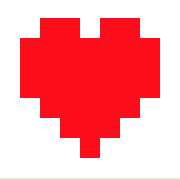
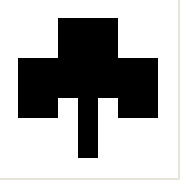
suits

diff --git a/src/js/main.js b/src/js/main.js
@@ -1,17 +1,15 @@
 let player1StackSize = document.querySelector('#player1StackSize')
 let player1InPlay = document.querySelector ('#player1InPlay')
-let player1Suit = document.querySelector('#player1Suit')
+let player1Suit = document.querySelector('#player1Suit div')
 let player1Rank = document.querySelector('#player1Rank')
 let player2StackSize = document.querySelector('#player2StackSize')
 let player2InPlay = document.querySelector('#player2InPlay')
-let player2Suit = document.querySelector('#player2Suit')
+let player2Suit = document.querySelector('#player2Suit div')
 let player2Rank = document.querySelector('#player2Rank')
-let suitPath = "../hearts.png"
 
 class Card {
-  constructor(suit,suitPath,rank,score) {
+  constructor(suit,rank,score) {
     this.suit = suit
-    this.suitPath = suitPath
     this.rank = rank
     this.score = score
   }
@@ -20,8 +18,7 @@ class Deck {
   constructor() {
     this.quant = 52
     this.deck = []
-    this.suits = ["Hearts", "Diamonds", "Clubs", "Spades"]
-    this.suitPaths = ['../img/hearts.png', '../img/diamonds.png', '../img/clubs.png', '../img/spades.png']
+    this.suits = ["hearts", "diamonds", "clubs", "spades"]
     this.ranks = ["2", "3", "4", "5", "6", "7", "8", "9", "10", "Jack", "Queen", "King", "Ace"]
     this.scores = [2,3,4,5,6,7,8,9,10,11,12,13,14]
   }
@@ -29,7 +26,7 @@ class Deck {
     this.deck = [];
     for (let i = 0; i < 4; i++) {
       for (let j = 0; j < 13; j++) {
-        this.deck.push(new Card(this.suits[i], this.suitPaths[i],this.ranks[j], this.scores[j]))
+        this.deck.push(new Card(this.suits[i],this.ranks[j], this.scores[j]))
       }
     }
     let currentIndex = this.deck.length, tempValue, randomIndex;
@@ -54,12 +51,12 @@ class Deck {
 }
 
 class Player {
-  constructor(name, rankText, suitImg) {
+  constructor(name, rankText, suitInPlay) {
     this.name = name
     this.stack = [];
     this.inPlay = [];
     this.rankText = rankText
-    this.suitImg = suitImg
+    this.suitInPlay = suitInPlay
   }
   takeHalf(obj) {
     for (i = 0; i < 26; i++) {
@@ -70,20 +67,12 @@ class Player {
   play(evt) {
     evt.preventDefault()
     this.inPlay.push(this.stack.shift())
+    console.log(this.inPlay[0])
     this.rankText.innerHTML = this.inPlay[0].rank
-    // if (this.inPlay[0].suit === "hearts") {
-    //   suitPath = '../img/hearts.png'
-    // } else if (this.inPlay[0].suit === "diamonds") {
-    //   suitPath = '#'
-    // } else if (this.inPlay[0].suit === "spades") {
-    //   suitPath = '#'
-    // } else if (this.inPlay[0].suit === "clubs") {
-    //   suitPath = '#'
-    // } else {
-    //   suitPath = '../img/hearts.png'
-    // }
-    this.suitImg.setAttribute('src',this.inPlay[0].suitPath)
-    console.log(this.suitImg)
+    this.suitInPlay.removeAttribute('class')
+    this.suitInPlay.setAttribute('class', `${this.inPlay[0].suit}`)
+    console.log(this.suitInPlay)
+    //this.inPlay[0].setAttribute('class',this.inPlay[0].suit)
     player1StackSize.innerHTML = `${player1.stack.length}`
     player2StackSize.innerHTML = `${player2.stack.length}`
     console.log(`${this.name} played the ${this.inPlay[0].rank} of ${this.inPlay[0].suit}`)

diff --git a/src/sass/main.scss b/src/sass/main.scss
@@ -34,10 +34,24 @@ body {
         color: teal;
       }
       .suit {
-        background-image: url('../img/hearts.png');
         background-position: center;
         background-repeat: no-repeat;
         background-size: cover;
+        .none {
+          background-image: url('../img/hearts.png');
+        }
+        .hearts {
+          background-image: url('../img/hearts.png')
+        }
+        .diamonds {
+          background-image: url('../img/diamonds.png')
+        }
+        .spades {
+          background-image: url('../img/spades.png')
+        }
+        .clubs {
+          background-image: url('../img/clubs.png')
+        }
       }
     }
     #makeWar {
